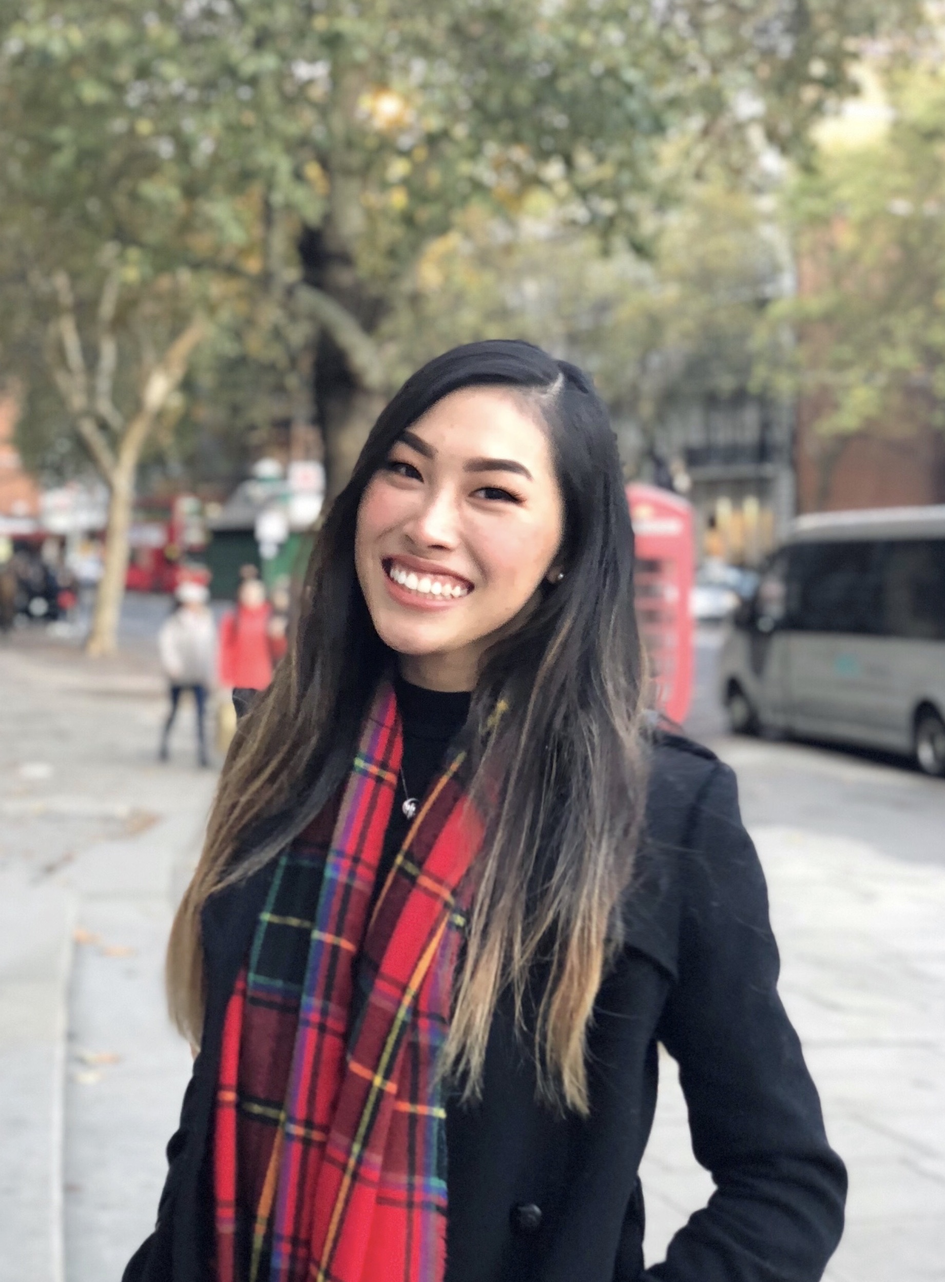
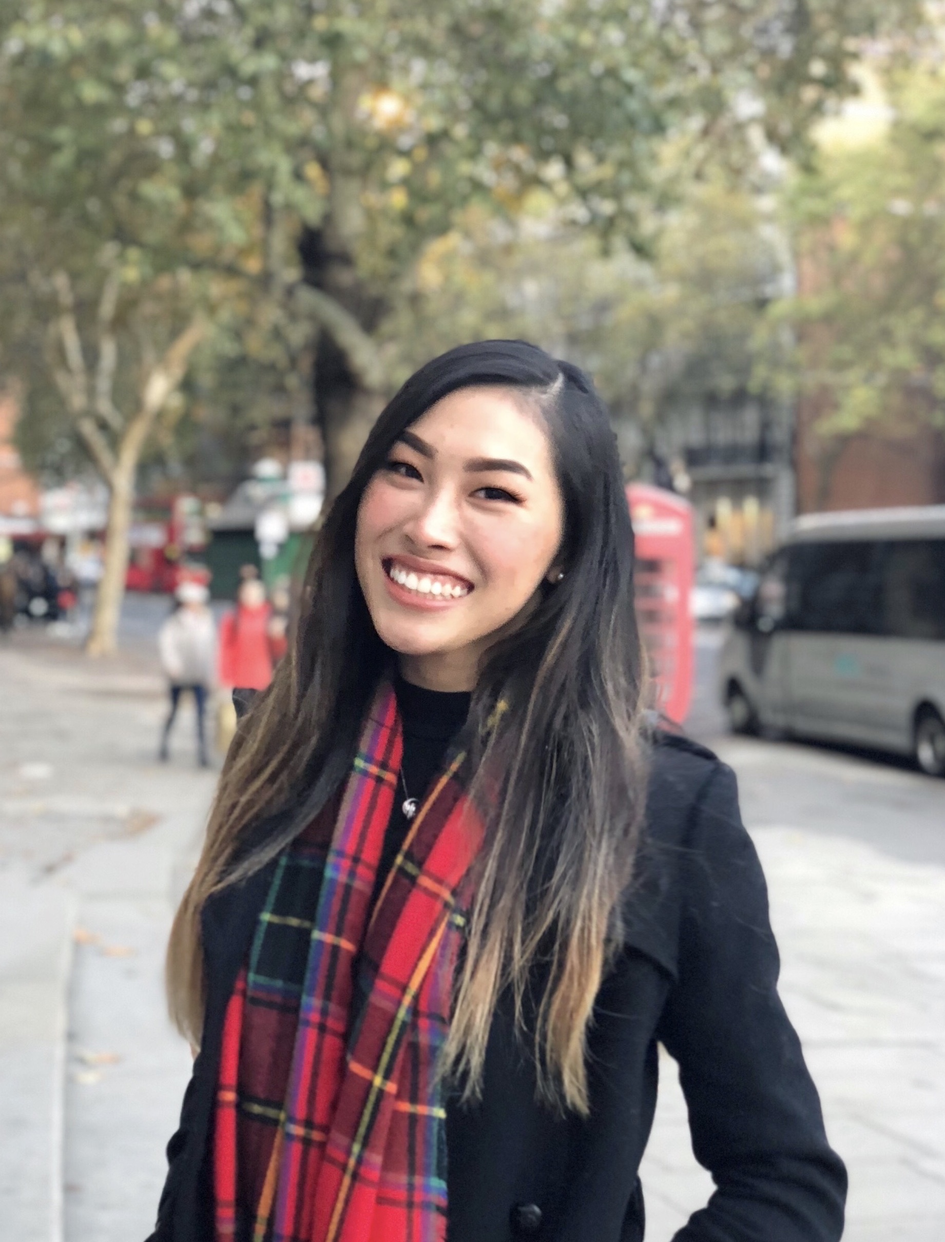
resize image

diff --git a/stylesheets/index.css b/stylesheets/index.css
@@ -66,7 +66,11 @@ section {
 }
 
 .homeimg {
-  width: 95%;
+  width: 98%;
+}
+
+.txt-rotate{
+  margin-right: 1%;
 }
 
 #section04 a {
